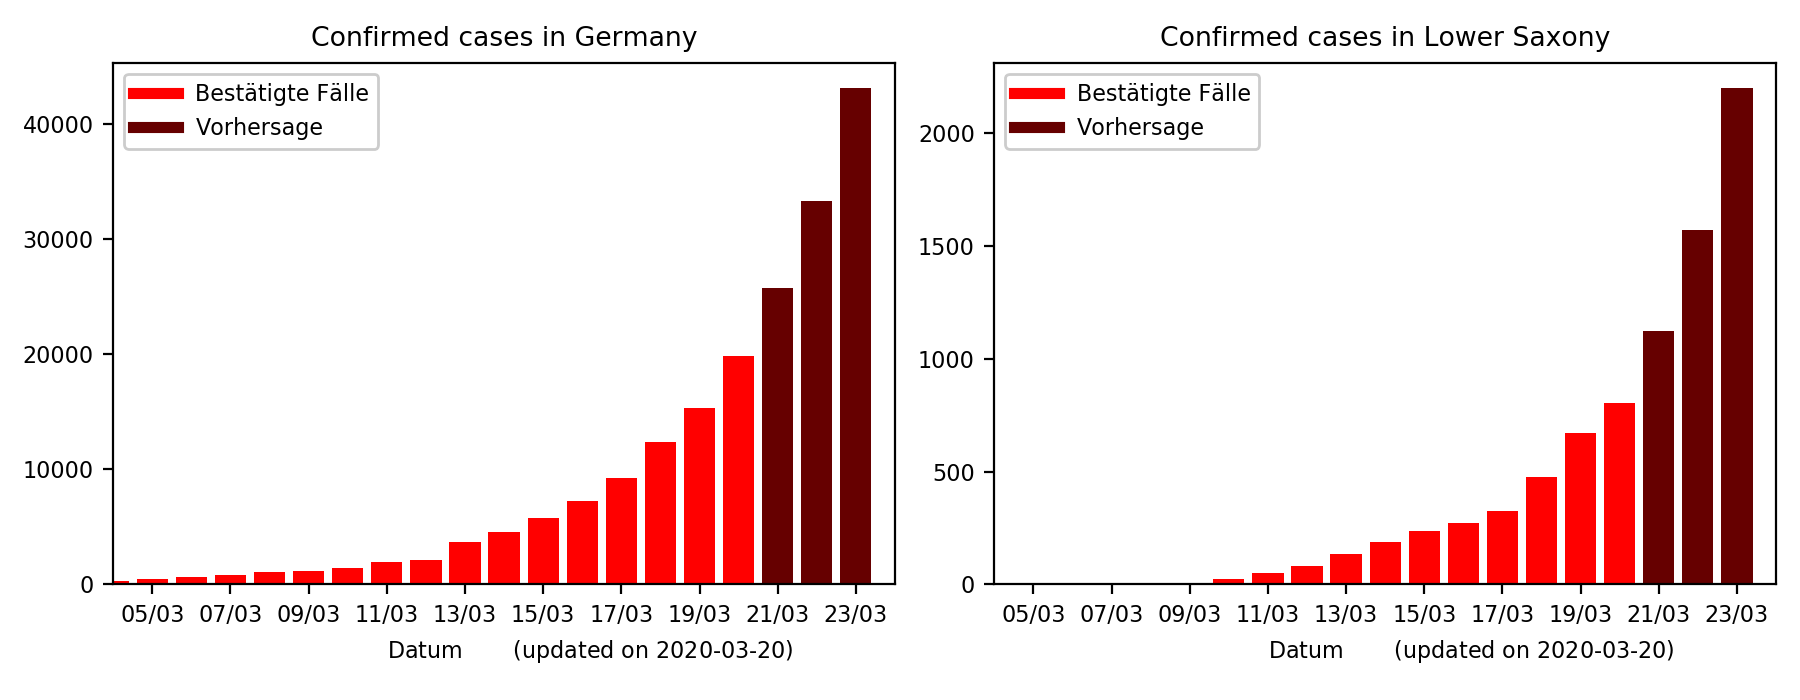
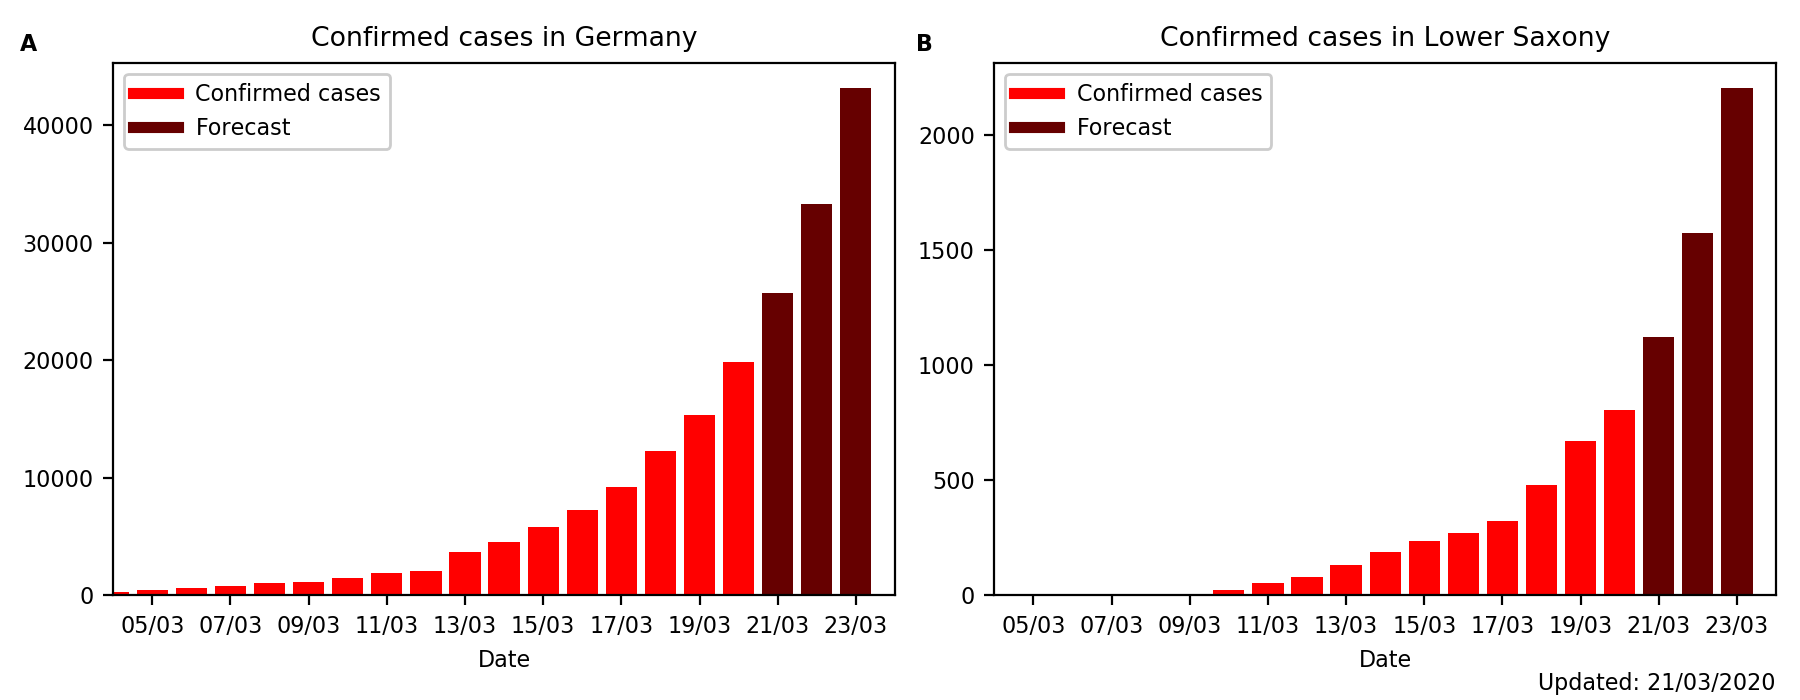
Adds updated plots

diff --git a/coronavirus.py b/coronavirus.py
@@ -3,6 +3,7 @@ import seaborn as sns
 import scipy.stats as st
 import numpy as np
 import os
+from datetime import datetime
 
 import matplotlib
 import matplotlib.pyplot as plt
@@ -116,17 +117,23 @@ def plot_countries(df,country_list=['Germany', 'Italy', 'France'], lag_countries
 	ax.xaxis.set_major_formatter(mdates.DateFormatter('%d/%m'))
 	#ax.autoscale(enable=True,axis='y', tight=True)
 
+	plt.tight_layout()
+
 	if savefig is not None:
 		plt.savefig(savefig, dpi=200)
 		plt.close('all')
 
-def plot_prediction(file, days_pred = 3, m_days=3, title=None, datatype = 'confirmed', ax=None, x_min = None, ylabel='cases',color='r', savefig=None, **kwargs):
+def plot_prediction(file, days_pred = 3, m_days=3, title=None, datatype = 'confirmed', labels = ['Confirmed cases','Forecast'], ax=None, x_min = None,color='r', savefig=None, **kwargs):
 
 	#Parameters
 	interval_cl = 0.95
 	color_m = 'k'
 	color_pred = sns.set_hls_values(color,l=0.2)
 	plt.rcParams.update({'font.size': 8})
+
+	#Default labels
+	str_title = 'Forecast'
+	str_xlabel = 'Date'
 
 	#Parses input
 	if type(file) == str:
@@ -135,7 +142,6 @@ def plot_prediction(file, days_pred = 3, m_days=3, title=None, datatype = 'confi
 		df = file
 	else:
 		TypeError('file is neither a .csv location or a pandas dataframe.')
-
 
 	df['date'] = pd.to_datetime(df['date'])
 
@@ -148,8 +154,6 @@ def plot_prediction(file, days_pred = 3, m_days=3, title=None, datatype = 'confi
 			date_max = df['date'].max()
 
 	#df_pred = pd.DataFrame(columns=['date', 'prediction_min', 'prediction_max'])
-
-
 
 	#Calculates observables
 	df['m'] = df[datatype]/df[datatype].shift(1)
@@ -182,6 +186,8 @@ def plot_prediction(file, days_pred = 3, m_days=3, title=None, datatype = 'confi
 		fig = plt.figure(figsize=(4.5,3.5))
 		ax = plt.gca()
 
+
+
 	#label_1 = 'Confirmed cases' + str(df['date'].iloc[-1])[:-9]
 	# label_1 = 'Confirmed cases'
 	# label_2 = 'Forecast'
@@ -204,9 +210,10 @@ def plot_prediction(file, days_pred = 3, m_days=3, title=None, datatype = 'confi
 	ax.set_xlim([pd.Timestamp(x_min), df['date'].max() + pd.to_timedelta(days_pred + 1,unit='d')])
 	#ax.set_title(title)
 	#ax.set_ylabel(ylabel)
-	ax.set_title(ylabel)
+	ax.set_title(str_title)
 	#ax.set_xlabel(r'$\qquad\qquad\qquad\qquad$Date$\qquad$ (updated on ' + str(df['date'].iloc[-1])[:-9] + ')')
-	ax.set_xlabel(r'$\qquad\qquad\qquad\qquad$Datum$\qquad$ (updated on ' + str(df['date'].iloc[-1])[:-9] + ')')
+	#ax.set_xlabel(r'$\qquad\qquad\qquad\qquad$Datum$\qquad$ (updated on ' + str(df['date'].iloc[-1])[:-9] + ')')
+	ax.set_xlabel(str_xlabel)
 	#ax.set_xlabel(r"Date $\qquad$")
 	#ax2.set_ylabel('Increase factor ')
 	ax.xaxis.set_major_formatter(mdates.DateFormatter('%d/%m'))
@@ -215,11 +222,11 @@ def plot_prediction(file, days_pred = 3, m_days=3, title=None, datatype = 'confi
 	#custom_lines = [Line2D([0], [0], color=color, lw=4), Line2D([0], [0], color=color_pred, lw=4), Line2D([0], [0], linestyle='--', lw=2, color=color_m)]
 	#ax2.legend(custom_lines, [label_1, label_2, label_3], framealpha=1, facecolor='white', loc='upper left')
 	custom_lines = [Line2D([0], [0], color=color, lw=4), Line2D([0], [0], color=color_pred, lw=4)]
-	ax.legend(custom_lines, [label_1, label_2], framealpha=1, facecolor='white', loc='upper left')
+	ax.legend(custom_lines, [labels[0], labels[1]], framealpha=1, facecolor='white', loc='upper left')
 	plt.tight_layout()
 
-	str_ann = 'Updated on ' + str(df['date'].iloc[-1])[:-9] + '\nData source: https://systems.jhu.edu/research/public-health/ncov/'
-	str_ann = 'Data source: https://systems.jhu.edu/research/public-health/ncov/'
+	#str_ann = 'Updated on ' + str(df['date'].iloc[-1])[:-9] + '\nData source: https://systems.jhu.edu/research/public-health/ncov/'
+	#str_ann = 'Data source: https://systems.jhu.edu/research/public-health/ncov/'
 	#ax.annotate(str_ann, xy=(1,-0.02), xycoords=('axes fraction','figure fraction'), xytext=(0,6), textcoords='offset points', ha='right')
 
 	if savefig is not None:
@@ -281,6 +288,42 @@ def update_all(days_pred = 3, m_days = 3):
 
 def plot_local_update(lang='de'):
 
+	#Plots local short-term forecast
+	
+	if lang == 'en':
+		ylabel_de = 'Confirmed cases in Germany'
+		ylabel_ls = 'Confirmed cases in Lower Saxony'
+		str_save = 'plots/germany_local_en.png'
+		labels = ['Confirmed cases', 'Forecast']
+		str_ann = 'Updated: ' + datetime.now().strftime("%d/%m/%Y")
+		
+
+	elif lang == 'de':
+		ylabel_de = 'Gesamtzahl bestätigter Fälle in Deutschland'
+		ylabel_ls = 'Gesamtzahl bestätigter Fälle in Niedersachsen'
+		labels = ['Bestätigte Fälle', 'Vorhersage']
+		str_save = 'plots/germany_local_de.png'
+		str_ann = 'Aktualisiert: ' + datetime.now().strftime("%d/%m/%Y")
+
+	fig = plt.figure(figsize=(9,3.5))
+	gs = fig.add_gridspec(1,2)
+	ax_germany = fig.add_subplot(gs[0])
+	ax_lowersaxony = fig.add_subplot(gs[1])
+
+	plot_prediction('data/johnhopkins/germany_confirmed.csv', datatype='confirmed', x_min='2020-03-04', labels=labels, ax=ax_germany)
+	plot_prediction('data/lowersaxony_confirmed.csv', datatype='confirmed', x_min='2020-03-04', labels=labels, ax=ax_lowersaxony)
+
+	ax_germany.set_title(ylabel_de)
+	ax_lowersaxony.set_title(ylabel_ls)
+	ax_lowersaxony.annotate(str_ann, xy=(1,-0.01), xycoords=('axes fraction','figure fraction'), xytext=(0,6), textcoords='offset points', ha='right')
+
+	ax_germany.annotate('A', xy=(-0.12,0.9), xycoords=('axes fraction','figure fraction'), xytext=(0,7), textcoords='offset points', ha='left', weight='bold')
+	ax_lowersaxony.annotate('B', xy=(-0.10,0.9), xycoords=('axes fraction','figure fraction'), xytext=(0,7), textcoords='offset points', ha='left', weight='bold')
+
+	plt.savefig(str_save, dpi=200)
+	plt.close('all')
+
+	#Plots comparison between countries_list
 	countries_list = ['Germany', 'Italy', 'Korea, South']
 
 	fig = plt.figure(figsize=(9,3.5))
@@ -317,26 +360,9 @@ def plot_local_update(lang='de'):
 	ax_cases.set_xticklabels(np.arange(0,30,4))
 	ax_deaths.set_xticklabels(np.arange(0,30,4))
 
-	plt.savefig(str_save, dpi=200)
-	plt.close('all')
+	ax_deaths.annotate(str_ann, xy=(1,-0.01), xycoords=('axes fraction','figure fraction'), xytext=(0,6), textcoords='offset points', ha='right')
+	ax_cases.annotate('A', xy=(-0.19,0.9), xycoords=('axes fraction','figure fraction'), xytext=(0,7), textcoords='offset points', ha='left', weight='bold')
+	ax_deaths.annotate('B', xy=(-0.17,0.9), xycoords=('axes fraction','figure fraction'), xytext=(0,7), textcoords='offset points', ha='left', weight='bold')
 
-
-	if lang == 'de':
-		ylabel_de = 'Confirmed cases in Germany'
-		ylabel_ls = 'Confirmed cases in Lower Saxony'
-		str_save = 'plots/germany_local_en.png'
-
-	elif lang == 'en':
-		ylabel_de = 'Gesamtzahl bestätigter Fälle in Deutschland'
-		ylabel_ls = 'Gesamtzahl bestätigter Fälle in Niedersachsen'
-		str_save = 'plots/germany_local_de.png'
-
-	fig = plt.figure(figsize=(9,3.5))
-	gs = fig.add_gridspec(1,2)
-	ax_germany = fig.add_subplot(gs[0])
-	ax_lowersaxony = fig.add_subplot(gs[1])
-
-	plot_prediction('data/johnhopkins/germany_confirmed.csv', datatype='confirmed', x_min='2020-03-04', ylabel=ylabel_de, ax=ax_germany)
-	plot_prediction('data/lowersaxony_confirmed.csv', datatype='confirmed', x_min='2020-03-04', ylabel=ylabel_ls, ax=ax_lowersaxony)
 	plt.savefig(str_save, dpi=200)
 	plt.close('all')
